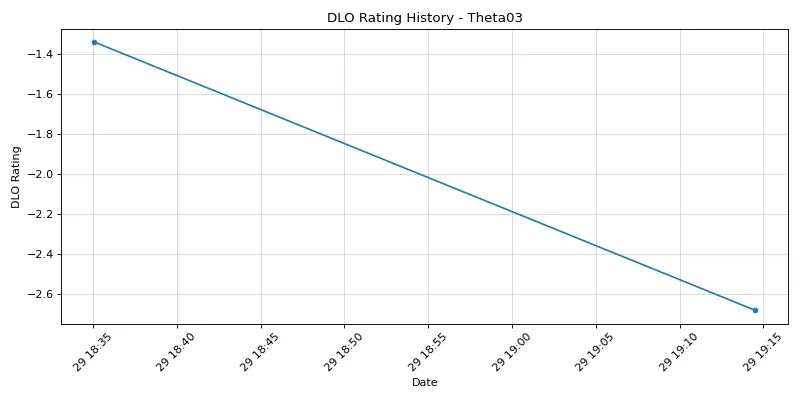
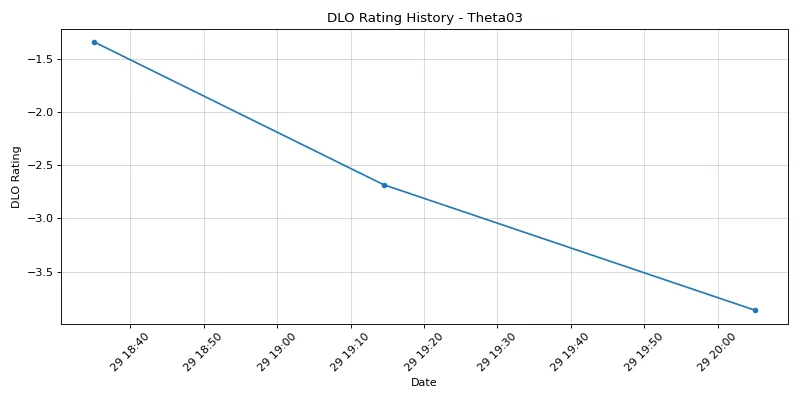
Auto-update: 2025-03-29 20:05:19

diff --git a/docs/index.html b/docs/index.html
@@ -53,7 +53,7 @@
             </tr>
         </thead>
         <tbody>
-            <tr><td>1</td><td><a href="player/76561198113365362.html">Rom</a></td><td>7.25</td><td>14</td></tr><tr><td>2</td><td><a href="player/76561198439522328.html">Scrubus</a></td><td>6.97</td><td>13</td></tr><tr><td>3</td><td><a href="player/76561198054330246.html">WzSnipes</a></td><td>4.93</td><td>7</td></tr><tr><td>4</td><td><a href="player/76561197991901288.html">Welsper</a></td><td>4.89</td><td>3</td></tr><tr><td>5</td><td><a href="player/76561198067145805.html">internetzspacezshipz</a></td><td>4.89</td><td>5</td></tr><tr><td>6</td><td><a href="player/76561199096225302.html">chereamie</a></td><td>3.64</td><td>4</td></tr><tr><td>7</td><td><a href="player/76561199109004727.html">Jacoda</a></td><td>3.56</td><td>2</td></tr><tr><td>8</td><td><a href="player/76561198188722486.html">Weeble Keneeble</a></td><td>3.41</td><td>2</td></tr><tr><td>9</td><td><a href="player/76561198895534238.html">Noek &#x27;Vessel&#x27; H.</a></td><td>3.24</td><td>2</td></tr><tr><td>10</td><td><a href="player/76561199813547421.html">Stern</a></td><td>3.19</td><td>4</td></tr><tr><td>11</td><td><a href="player/76561199074068434.html">Zabbix</a></td><td>3.16</td><td>2</td></tr><tr><td>12</td><td><a href="player/76561198153456000.html">Comedian</a></td><td>2.43</td><td>1</td></tr><tr><td>13</td><td><a href="player/76561199701048648.html">Fentanyl Ape</a></td><td>2.43</td><td>1</td></tr><tr><td>14</td><td><a href="player/76561199619179700.html">Austral</a></td><td>2.38</td><td>8</td></tr><tr><td>15</td><td><a href="player/76561198107440575.html">Gvazi</a></td><td>2.30</td><td>3</td></tr><tr><td>16</td><td><a href="player/76561198390895563.html">Black Bat A8T</a></td><td>2.22</td><td>6</td></tr><tr><td>17</td><td><a href="player/76561198405914826.html">Magic</a></td><td>2.04</td><td>3</td></tr><tr><td>18</td><td><a href="player/76561198988211104.html">dxb338</a></td><td>1.92</td><td>3</td></tr><tr><td>19</td><td><a href="player/76561198871018138.html">MXYFX-71400</a></td><td>1.89</td><td>1</td></tr><tr><td>20</td><td><a href="player/76561198018651039.html">Aurelia Lightpaw</a></td><td>1.85</td><td>1</td></tr><tr><td>21</td><td><a href="player/76561198012111956.html">KailasaHoles</a></td><td>1.85</td><td>1</td></tr><tr><td>22</td><td><a href="player/76561198062094692.html">Radosvik</a></td><td>1.85</td><td>1</td></tr><tr><td>23</td><td><a href="player/76561198092534377.html">Mav625</a></td><td>1.83</td><td>1</td></tr><tr><td>24</td><td><a href="player/76561199209524660.html">bigterrorist</a></td><td>1.76</td><td>1</td></tr><tr><td>25</td><td><a href="player/76561198353755299.html">Daemoniaque</a></td><td>1.73</td><td>1</td></tr><tr><td>26</td><td><a href="player/76561198843598485.html">Cassie Chase</a></td><td>1.69</td><td>1</td></tr><tr><td>27</td><td><a href="player/76561199839182647.html">Soedem</a></td><td>1.69</td><td>1</td></tr><tr><td>28</td><td><a href="player/76561199439219048.html">workas</a></td><td>1.69</td><td>1</td></tr><tr><td>29</td><td><a href="player/76561199841083469.html">bennycarver</a></td><td>1.68</td><td>1</td></tr><tr><td>30</td><td><a href="player/76561198151744331.html">CosmicEradicator</a></td><td>1.68</td><td>1</td></tr><tr><td>31</td><td><a href="player/76561197965398272.html">JonBolds</a></td><td>1.68</td><td>1</td></tr><tr><td>32</td><td><a href="player/76561199479844941.html">Daggon</a></td><td>1.66</td><td>1</td></tr><tr><td>33</td><td><a href="player/76561198149681631.html">Quintobean</a></td><td>1.65</td><td>7</td></tr><tr><td>34</td><td><a href="player/76561198203688599.html">HEAVEN BASED</a></td><td>1.63</td><td>1</td></tr><tr><td>35</td><td><a href="player/76561198118076747.html">Xenophon of Athens</a></td><td>1.63</td><td>1</td></tr><tr><td>36</td><td><a href="player/76561198072364306.html">BATTIE</a></td><td>1.62</td><td>1</td></tr><tr><td>37</td><td><a href="player/76561198324280078.html">flynn</a></td><td>1.59</td><td>9</td></tr><tr><td>38</td><td><a href="player/76561198799044855.html">Trojan_Shad0w</a></td><td>1.59</td><td>1</td></tr><tr><td>39</td><td><a href="player/76561199435784871.html">dashort1</a></td><td>1.58</td><td>1</td></tr><tr><td>40</td><td><a href="player/76561198061365582.html">LyricalKing</a></td><td>1.44</td><td>1</td></tr><tr><td>41</td><td><a href="player/76561198102689306.html">nova28</a></td><td>1.44</td><td>1</td></tr><tr><td>42</td><td><a href="player/76561198159764203.html">Cpt_Joe</a></td><td>1.42</td><td>1</td></tr><tr><td>43</td><td><a href="player/76561199238744504.html">Duke of Stars</a></td><td>1.39</td><td>6</td></tr><tr><td>44</td><td><a href="player/76561198947126591.html">SammyClassicStarfox</a></td><td>1.06</td><td>4</td></tr><tr><td>45</td><td><a href="player/76561198837013055.html">Jaspexx</a></td><td>0.96</td><td>4</td></tr><tr><td>46</td><td><a href="player/76561198250857768.html">Jakubian</a></td><td>0.95</td><td>1</td></tr><tr><td>47</td><td><a href="player/76561198430121736.html">teitokuwww</a></td><td>0.95</td><td>1</td></tr><tr><td>48</td><td><a href="player/76561198007984095.html">das</a></td><td>0.76</td><td>2</td></tr><tr><td>49</td><td><a href="player/76561198046325828.html">Kiroking</a></td><td>0.59</td><td>2</td></tr><tr><td>50</td><td><a href="player/76561199097135470.html">ocult</a></td><td>0.55</td><td>2</td></tr><tr><td>51</td><td><a href="player/76561198801434526.html">Jraamus</a></td><td>0.53</td><td>2</td></tr><tr><td>52</td><td><a href="player/76561198105386598.html">FreedomGR</a></td><td>0.51</td><td>2</td></tr><tr><td>53</td><td><a href="player/76561198399462425.html">iriS-xe</a></td><td>0.30</td><td>8</td></tr><tr><td>54</td><td><a href="player/76561197998511101.html">Hivegender</a></td><td>0.19</td><td>2</td></tr><tr><td>55</td><td><a href="player/76561198206866291.html">bonggyy</a></td><td>-0.20</td><td>7</td></tr><tr><td>56</td><td><a href="player/76561198052398418.html">_Puck_</a></td><td>-0.28</td><td>2</td></tr><tr><td>57</td><td><a href="player/76561198354645177.html">Solus</a></td><td>-0.31</td><td>3</td></tr><tr><td>58</td><td><a href="player/76561198089616341.html">hämis</a></td><td>-0.53</td><td>1</td></tr><tr><td>59</td><td><a href="player/76561198126182179.html">xxTHREExx</a></td><td>-0.53</td><td>1</td></tr><tr><td>60</td><td><a href="player/76561197997867197.html">Mann gegen Mann</a></td><td>-0.56</td><td>3</td></tr><tr><td>61</td><td><a href="player/76561198332158283.html">Lambooo</a></td><td>-0.92</td><td>1</td></tr><tr><td>62</td><td><a href="player/76561198140913834.html">SirPoopit</a></td><td>-0.94</td><td>1</td></tr><tr><td>63</td><td><a href="player/76561198010486795.html">QuizQuiz</a></td><td>-0.98</td><td>8</td></tr><tr><td>64</td><td><a href="player/76561198119011747.html">DerangedOctopus</a></td><td>-1.04</td><td>1</td></tr><tr><td>65</td><td><a href="player/76561197996747977.html">Captain Eban</a></td><td>-1.05</td><td>1</td></tr><tr><td>66</td><td><a href="player/76561198009272323.html">Explosive Megumin</a></td><td>-1.05</td><td>1</td></tr><tr><td>67</td><td><a href="player/76561198066312157.html">PieOfReckoning</a></td><td>-1.06</td><td>1</td></tr><tr><td>68</td><td><a href="player/76561198049445057.html">Skipper</a></td><td>-1.07</td><td>1</td></tr><tr><td>69</td><td><a href="player/76561198209008457.html">StabilWieNichts</a></td><td>-1.07</td><td>1</td></tr><tr><td>70</td><td><a href="player/76561198006884445.html">TheCheeseBandit</a></td><td>-1.07</td><td>1</td></tr><tr><td>71</td><td><a href="player/76561198019779444.html">Gambit</a></td><td>-1.18</td><td>1</td></tr><tr><td>72</td><td><a href="player/76561198208086923.html">apathy</a></td><td>-1.19</td><td>1</td></tr><tr><td>73</td><td><a href="player/76561197993020664.html">MrChops</a></td><td>-1.20</td><td>1</td></tr><tr><td>74</td><td><a href="player/76561197986126034.html">bowana</a></td><td>-1.21</td><td>1</td></tr><tr><td>75</td><td><a href="player/76561197984709358.html">CosmicEradicator</a></td><td>-1.21</td><td>1</td></tr><tr><td>76</td><td><a href="player/76561198074285909.html">Cosmos</a></td><td>-1.21</td><td>1</td></tr><tr><td>77</td><td><a href="player/76561197960539146.html">Dimori</a></td><td>-1.21</td><td>1</td></tr><tr><td>78</td><td><a href="player/76561198361715088.html">Cosmic Coom</a></td><td>-1.25</td><td>1</td></tr><tr><td>79</td><td><a href="player/76561198100430451.html">Nick0</a></td><td>-1.34</td><td>1</td></tr><tr><td>80</td><td><a href="player/76561198193749733.html">noobmaster69</a></td><td>-1.34</td><td>1</td></tr><tr><td>81</td><td><a href="player/76561198063315803.html">Occams Hammer</a></td><td>-1.34</td><td>1</td></tr><tr><td>82</td><td><a href="player/76561198152855754.html">Orgiastic Erection</a></td><td>-1.34</td><td>1</td></tr><tr><td>83</td><td><a href="player/76561198981973612.html">Iona Cerana</a></td><td>-1.39</td><td>1</td></tr><tr><td>84</td><td><a href="player/76561197984015263.html">Kung Leonard den Barbariske</a></td><td>-1.50</td><td>1</td></tr><tr><td>85</td><td><a href="player/76561198041325974.html">Pinselmann</a></td><td>-1.50</td><td>1</td></tr><tr><td>86</td><td><a href="player/76561198081378329.html">HELL CRINGE</a></td><td>-1.62</td><td>4</td></tr><tr><td>87</td><td><a href="player/76561198130378644.html">puppy</a></td><td>-2.12</td><td>4</td></tr><tr><td>88</td><td><a href="player/76561198064533187.html">Adleid</a></td><td>-2.19</td><td>4</td></tr><tr><td>89</td><td><a href="player/76561198822264018.html">PBstar27</a></td><td>-2.50</td><td>2</td></tr><tr><td>90</td><td><a href="player/76561198042187721.html">Lemon</a></td><td>-2.51</td><td>2</td></tr><tr><td>91</td><td><a href="player/76561198950963392.html">_bell</a></td><td>-2.52</td><td>13</td></tr><tr><td>92</td><td><a href="player/76561198097117564.html">Doggy Girl KikimoraθΔ</a></td><td>-2.63</td><td>2</td></tr><tr><td>93</td><td><a href="player/76561198864423220.html">HIMARS</a></td><td>-2.67</td><td>5</td></tr><tr><td>94</td><td><a href="player/76561198805239685.html">Theta03</a></td><td>-2.68</td><td>2</td></tr><tr><td>95</td><td><a href="player/None.html">Henka</a></td><td>-4.14</td><td>1</td></tr>
+            <tr><td>1</td><td><a href="player/76561198113365362.html">Rom</a></td><td>8.60</td><td>15</td></tr><tr><td>2</td><td><a href="player/76561198439522328.html">Scrubus</a></td><td>6.97</td><td>13</td></tr><tr><td>3</td><td><a href="player/76561198054330246.html">WzSnipes</a></td><td>4.93</td><td>7</td></tr><tr><td>4</td><td><a href="player/76561197991901288.html">Welsper</a></td><td>4.89</td><td>3</td></tr><tr><td>5</td><td><a href="player/76561198067145805.html">internetzspacezshipz</a></td><td>4.89</td><td>5</td></tr><tr><td>6</td><td><a href="player/76561199096225302.html">chereamie</a></td><td>3.64</td><td>4</td></tr><tr><td>7</td><td><a href="player/76561199109004727.html">Jacoda</a></td><td>3.56</td><td>2</td></tr><tr><td>8</td><td><a href="player/76561198188722486.html">Weeble Keneeble</a></td><td>3.41</td><td>2</td></tr><tr><td>9</td><td><a href="player/76561199813547421.html">Stern</a></td><td>3.19</td><td>4</td></tr><tr><td>10</td><td><a href="player/76561199074068434.html">Zabbix</a></td><td>3.16</td><td>2</td></tr><tr><td>11</td><td><a href="player/76561198153456000.html">Comedian</a></td><td>2.43</td><td>1</td></tr><tr><td>12</td><td><a href="player/76561199701048648.html">Fentanyl Ape</a></td><td>2.43</td><td>1</td></tr><tr><td>13</td><td><a href="player/76561199619179700.html">Austral</a></td><td>2.38</td><td>8</td></tr><tr><td>14</td><td><a href="player/76561198107440575.html">Gvazi</a></td><td>2.30</td><td>3</td></tr><tr><td>15</td><td><a href="player/76561198390895563.html">Black Bat A8T</a></td><td>2.22</td><td>6</td></tr><tr><td>16</td><td><a href="player/76561198895534238.html">Noek &#x27;Vessel&#x27; H.</a></td><td>2.06</td><td>3</td></tr><tr><td>17</td><td><a href="player/76561198405914826.html">Magic</a></td><td>2.04</td><td>3</td></tr><tr><td>18</td><td><a href="player/76561198988211104.html">dxb338</a></td><td>1.92</td><td>3</td></tr><tr><td>19</td><td><a href="player/76561198871018138.html">MXYFX-71400</a></td><td>1.89</td><td>1</td></tr><tr><td>20</td><td><a href="player/76561198018651039.html">Aurelia Lightpaw</a></td><td>1.85</td><td>1</td></tr><tr><td>21</td><td><a href="player/76561198012111956.html">KailasaHoles</a></td><td>1.85</td><td>1</td></tr><tr><td>22</td><td><a href="player/76561198062094692.html">Radosvik</a></td><td>1.85</td><td>1</td></tr><tr><td>23</td><td><a href="player/76561198092534377.html">Mav625</a></td><td>1.83</td><td>1</td></tr><tr><td>24</td><td><a href="player/76561198399462425.html">iriS-xe</a></td><td>1.82</td><td>9</td></tr><tr><td>25</td><td><a href="player/76561199209524660.html">bigterrorist</a></td><td>1.76</td><td>1</td></tr><tr><td>26</td><td><a href="player/76561198353755299.html">Daemoniaque</a></td><td>1.73</td><td>1</td></tr><tr><td>27</td><td><a href="player/76561198843598485.html">Cassie Chase</a></td><td>1.69</td><td>1</td></tr><tr><td>28</td><td><a href="player/76561199839182647.html">Soedem</a></td><td>1.69</td><td>1</td></tr><tr><td>29</td><td><a href="player/76561199439219048.html">workas</a></td><td>1.69</td><td>1</td></tr><tr><td>30</td><td><a href="player/76561199841083469.html">bennycarver</a></td><td>1.68</td><td>1</td></tr><tr><td>31</td><td><a href="player/76561198151744331.html">CosmicEradicator</a></td><td>1.68</td><td>1</td></tr><tr><td>32</td><td><a href="player/76561197965398272.html">JonBolds</a></td><td>1.68</td><td>1</td></tr><tr><td>33</td><td><a href="player/76561199479844941.html">Daggon</a></td><td>1.66</td><td>1</td></tr><tr><td>34</td><td><a href="player/76561198149681631.html">Quintobean</a></td><td>1.65</td><td>7</td></tr><tr><td>35</td><td><a href="player/76561198203688599.html">HEAVEN BASED</a></td><td>1.63</td><td>1</td></tr><tr><td>36</td><td><a href="player/76561198118076747.html">Xenophon of Athens</a></td><td>1.63</td><td>1</td></tr><tr><td>37</td><td><a href="player/76561198072364306.html">BATTIE</a></td><td>1.62</td><td>1</td></tr><tr><td>38</td><td><a href="player/76561198324280078.html">flynn</a></td><td>1.59</td><td>9</td></tr><tr><td>39</td><td><a href="player/76561198799044855.html">Trojan_Shad0w</a></td><td>1.59</td><td>1</td></tr><tr><td>40</td><td><a href="player/76561199435784871.html">dashort1</a></td><td>1.58</td><td>1</td></tr><tr><td>41</td><td><a href="player/76561198061365582.html">LyricalKing</a></td><td>1.44</td><td>1</td></tr><tr><td>42</td><td><a href="player/76561198102689306.html">nova28</a></td><td>1.44</td><td>1</td></tr><tr><td>43</td><td><a href="player/76561198159764203.html">Cpt_Joe</a></td><td>1.42</td><td>1</td></tr><tr><td>44</td><td><a href="player/76561199238744504.html">Duke of Stars</a></td><td>1.39</td><td>6</td></tr><tr><td>45</td><td><a href="player/76561198947126591.html">SammyClassicStarfox</a></td><td>1.06</td><td>4</td></tr><tr><td>46</td><td><a href="player/76561198837013055.html">Jaspexx</a></td><td>0.96</td><td>4</td></tr><tr><td>47</td><td><a href="player/76561198250857768.html">Jakubian</a></td><td>0.95</td><td>1</td></tr><tr><td>48</td><td><a href="player/76561198430121736.html">teitokuwww</a></td><td>0.95</td><td>1</td></tr><tr><td>49</td><td><a href="player/76561198007984095.html">das</a></td><td>0.76</td><td>2</td></tr><tr><td>50</td><td><a href="player/76561198046325828.html">Kiroking</a></td><td>0.59</td><td>2</td></tr><tr><td>51</td><td><a href="player/76561199097135470.html">ocult</a></td><td>0.55</td><td>2</td></tr><tr><td>52</td><td><a href="player/76561198801434526.html">Jraamus</a></td><td>0.53</td><td>2</td></tr><tr><td>53</td><td><a href="player/76561198105386598.html">FreedomGR</a></td><td>0.51</td><td>2</td></tr><tr><td>54</td><td><a href="player/76561197998511101.html">Hivegender</a></td><td>0.19</td><td>2</td></tr><tr><td>55</td><td><a href="player/76561198081378329.html">HELL CRINGE</a></td><td>0.01</td><td>5</td></tr><tr><td>56</td><td><a href="player/76561198206866291.html">bonggyy</a></td><td>-0.20</td><td>7</td></tr><tr><td>57</td><td><a href="player/76561198052398418.html">_Puck_</a></td><td>-0.28</td><td>2</td></tr><tr><td>58</td><td><a href="player/76561198354645177.html">Solus</a></td><td>-0.31</td><td>3</td></tr><tr><td>59</td><td><a href="player/76561198089616341.html">hämis</a></td><td>-0.53</td><td>1</td></tr><tr><td>60</td><td><a href="player/76561198126182179.html">xxTHREExx</a></td><td>-0.53</td><td>1</td></tr><tr><td>61</td><td><a href="player/76561197997867197.html">Mann gegen Mann</a></td><td>-0.56</td><td>3</td></tr><tr><td>62</td><td><a href="player/76561198332158283.html">Lambooo</a></td><td>-0.92</td><td>1</td></tr><tr><td>63</td><td><a href="player/76561198140913834.html">SirPoopit</a></td><td>-0.94</td><td>1</td></tr><tr><td>64</td><td><a href="player/76561198010486795.html">QuizQuiz</a></td><td>-0.98</td><td>8</td></tr><tr><td>65</td><td><a href="player/76561197996747977.html">Captain Eban</a></td><td>-1.05</td><td>1</td></tr><tr><td>66</td><td><a href="player/76561198009272323.html">Explosive Megumin</a></td><td>-1.05</td><td>1</td></tr><tr><td>67</td><td><a href="player/76561198066312157.html">PieOfReckoning</a></td><td>-1.06</td><td>1</td></tr><tr><td>68</td><td><a href="player/76561198049445057.html">Skipper</a></td><td>-1.07</td><td>1</td></tr><tr><td>69</td><td><a href="player/76561198209008457.html">StabilWieNichts</a></td><td>-1.07</td><td>1</td></tr><tr><td>70</td><td><a href="player/76561198006884445.html">TheCheeseBandit</a></td><td>-1.07</td><td>1</td></tr><tr><td>71</td><td><a href="player/76561198950963392.html">_bell</a></td><td>-1.13</td><td>14</td></tr><tr><td>72</td><td><a href="player/76561198019779444.html">Gambit</a></td><td>-1.18</td><td>1</td></tr><tr><td>73</td><td><a href="player/76561198208086923.html">apathy</a></td><td>-1.19</td><td>1</td></tr><tr><td>74</td><td><a href="player/76561197993020664.html">MrChops</a></td><td>-1.20</td><td>1</td></tr><tr><td>75</td><td><a href="player/76561197986126034.html">bowana</a></td><td>-1.21</td><td>1</td></tr><tr><td>76</td><td><a href="player/76561197984709358.html">CosmicEradicator</a></td><td>-1.21</td><td>1</td></tr><tr><td>77</td><td><a href="player/76561198074285909.html">Cosmos</a></td><td>-1.21</td><td>1</td></tr><tr><td>78</td><td><a href="player/76561197960539146.html">Dimori</a></td><td>-1.21</td><td>1</td></tr><tr><td>79</td><td><a href="player/76561198361715088.html">Cosmic Coom</a></td><td>-1.25</td><td>1</td></tr><tr><td>80</td><td><a href="player/76561198100430451.html">Nick0</a></td><td>-1.34</td><td>1</td></tr><tr><td>81</td><td><a href="player/76561198193749733.html">noobmaster69</a></td><td>-1.34</td><td>1</td></tr><tr><td>82</td><td><a href="player/76561198063315803.html">Occams Hammer</a></td><td>-1.34</td><td>1</td></tr><tr><td>83</td><td><a href="player/76561198152855754.html">Orgiastic Erection</a></td><td>-1.34</td><td>1</td></tr><tr><td>84</td><td><a href="player/76561198981973612.html">Iona Cerana</a></td><td>-1.39</td><td>1</td></tr><tr><td>85</td><td><a href="player/76561197984015263.html">Kung Leonard den Barbariske</a></td><td>-1.50</td><td>1</td></tr><tr><td>86</td><td><a href="player/76561198041325974.html">Pinselmann</a></td><td>-1.50</td><td>1</td></tr><tr><td>87</td><td><a href="player/76561198130378644.html">puppy</a></td><td>-2.12</td><td>4</td></tr><tr><td>88</td><td><a href="player/76561198064533187.html">Adleid</a></td><td>-2.19</td><td>4</td></tr><tr><td>89</td><td><a href="player/76561198119011747.html">DerangedOctopus</a></td><td>-2.24</td><td>2</td></tr><tr><td>90</td><td><a href="player/76561198822264018.html">PBstar27</a></td><td>-2.50</td><td>2</td></tr><tr><td>91</td><td><a href="player/76561198097117564.html">Doggy Girl KikimoraθΔ</a></td><td>-2.63</td><td>2</td></tr><tr><td>92</td><td><a href="player/76561198864423220.html">HIMARS</a></td><td>-2.67</td><td>5</td></tr><tr><td>93</td><td><a href="player/76561198042187721.html">Lemon</a></td><td>-3.69</td><td>3</td></tr><tr><td>94</td><td><a href="player/76561198805239685.html">Theta03</a></td><td>-3.86</td><td>3</td></tr><tr><td>95</td><td><a href="player/None.html">Henka</a></td><td>-4.14</td><td>1</td></tr>
         </tbody>
     </table>
 </body>

diff --git a/docs/player/76561198950963392.html b/docs/player/76561198950963392.html
@@ -57,19 +57,19 @@
         </tr>
         <tr>
             <th>Wins/Losses</th>
-            <td>4 / 9 (30.8%)</td>
+            <td>5 / 9 (35.7%)</td>
         </tr>
         <tr>
             <th>Current DLO</th>
-            <td>-2.52</td>
+            <td>-1.13</td>
         </tr>
         <tr>
             <th>Mu (μ)</th>
-            <td>19.74</td>
+            <td>20.94</td>
         </tr>
         <tr>
             <th>Sigma (σ)</th>
-            <td>7.42</td>
+            <td>7.36</td>
         </tr>
     </table>
 

diff --git a/docs/player/76561198081378329.html b/docs/player/76561198081378329.html
@@ -57,19 +57,19 @@
         </tr>
         <tr>
             <th>Wins/Losses</th>
-            <td>1 / 3 (25.0%)</td>
+            <td>2 / 3 (40.0%)</td>
         </tr>
         <tr>
             <th>Current DLO</th>
-            <td>-1.62</td>
+            <td>0.01</td>
         </tr>
         <tr>
             <th>Mu (μ)</th>
-            <td>22.35</td>
+            <td>23.74</td>
         </tr>
         <tr>
             <th>Sigma (σ)</th>
-            <td>7.99</td>
+            <td>7.91</td>
         </tr>
     </table>
 

diff --git a/docs/player/76561198113365362.html b/docs/player/76561198113365362.html
@@ -57,19 +57,19 @@
         </tr>
         <tr>
             <th>Wins/Losses</th>
-            <td>9 / 5 (64.3%)</td>
+            <td>10 / 5 (66.7%)</td>
         </tr>
         <tr>
             <th>Current DLO</th>
-            <td>7.25</td>
+            <td>8.60</td>
         </tr>
         <tr>
             <th>Mu (μ)</th>
-            <td>29.23</td>
+            <td>30.41</td>
         </tr>
         <tr>
             <th>Sigma (σ)</th>
-            <td>7.33</td>
+            <td>7.27</td>
         </tr>
     </table>
 

diff --git a/docs/player/76561198895534238.html b/docs/player/76561198895534238.html
@@ -57,19 +57,19 @@
         </tr>
         <tr>
             <th>Wins/Losses</th>
-            <td>2 / 0 (100.0%)</td>
+            <td>2 / 1 (66.7%)</td>
         </tr>
         <tr>
             <th>Current DLO</th>
-            <td>3.24</td>
+            <td>2.06</td>
         </tr>
         <tr>
             <th>Mu (μ)</th>
-            <td>27.78</td>
+            <td>26.32</td>
         </tr>
         <tr>
             <th>Sigma (σ)</th>
-            <td>8.18</td>
+            <td>8.09</td>
         </tr>
     </table>
 

diff --git a/docs/player/76561198042187721.html b/docs/player/76561198042187721.html
@@ -57,19 +57,19 @@
         </tr>
         <tr>
             <th>Wins/Losses</th>
-            <td>0 / 2 (0.0%)</td>
+            <td>0 / 3 (0.0%)</td>
         </tr>
         <tr>
             <th>Current DLO</th>
-            <td>-2.51</td>
+            <td>-3.69</td>
         </tr>
         <tr>
             <th>Mu (μ)</th>
-            <td>21.96</td>
+            <td>20.51</td>
         </tr>
         <tr>
             <th>Sigma (σ)</th>
-            <td>8.16</td>
+            <td>8.07</td>
         </tr>
     </table>
 

diff --git a/docs/player/76561198119011747.html b/docs/player/76561198119011747.html
@@ -57,19 +57,19 @@
         </tr>
         <tr>
             <th>Wins/Losses</th>
-            <td>0 / 1 (0.0%)</td>
+            <td>0 / 2 (0.0%)</td>
         </tr>
         <tr>
             <th>Current DLO</th>
-            <td>-1.04</td>
+            <td>-2.24</td>
         </tr>
         <tr>
             <th>Mu (μ)</th>
-            <td>23.70</td>
+            <td>22.22</td>
         </tr>
         <tr>
             <th>Sigma (σ)</th>
-            <td>8.25</td>
+            <td>8.15</td>
         </tr>
     </table>
 

diff --git a/docs/player/76561198399462425.html b/docs/player/76561198399462425.html
@@ -57,19 +57,19 @@
         </tr>
         <tr>
             <th>Wins/Losses</th>
-            <td>3 / 5 (37.5%)</td>
+            <td>4 / 5 (44.4%)</td>
         </tr>
         <tr>
             <th>Current DLO</th>
-            <td>0.30</td>
+            <td>1.82</td>
         </tr>
         <tr>
             <th>Mu (μ)</th>
-            <td>23.46</td>
+            <td>24.76</td>
         </tr>
         <tr>
             <th>Sigma (σ)</th>
-            <td>7.72</td>
+            <td>7.65</td>
         </tr>
     </table>
 

diff --git a/docs/player/76561198805239685.html b/docs/player/76561198805239685.html
@@ -57,19 +57,19 @@
         </tr>
         <tr>
             <th>Wins/Losses</th>
-            <td>0 / 2 (0.0%)</td>
+            <td>0 / 3 (0.0%)</td>
         </tr>
         <tr>
             <th>Current DLO</th>
-            <td>-2.68</td>
+            <td>-3.86</td>
         </tr>
         <tr>
             <th>Mu (μ)</th>
-            <td>21.77</td>
+            <td>20.32</td>
         </tr>
         <tr>
             <th>Sigma (σ)</th>
-            <td>8.15</td>
+            <td>8.06</td>
         </tr>
     </table>
 
